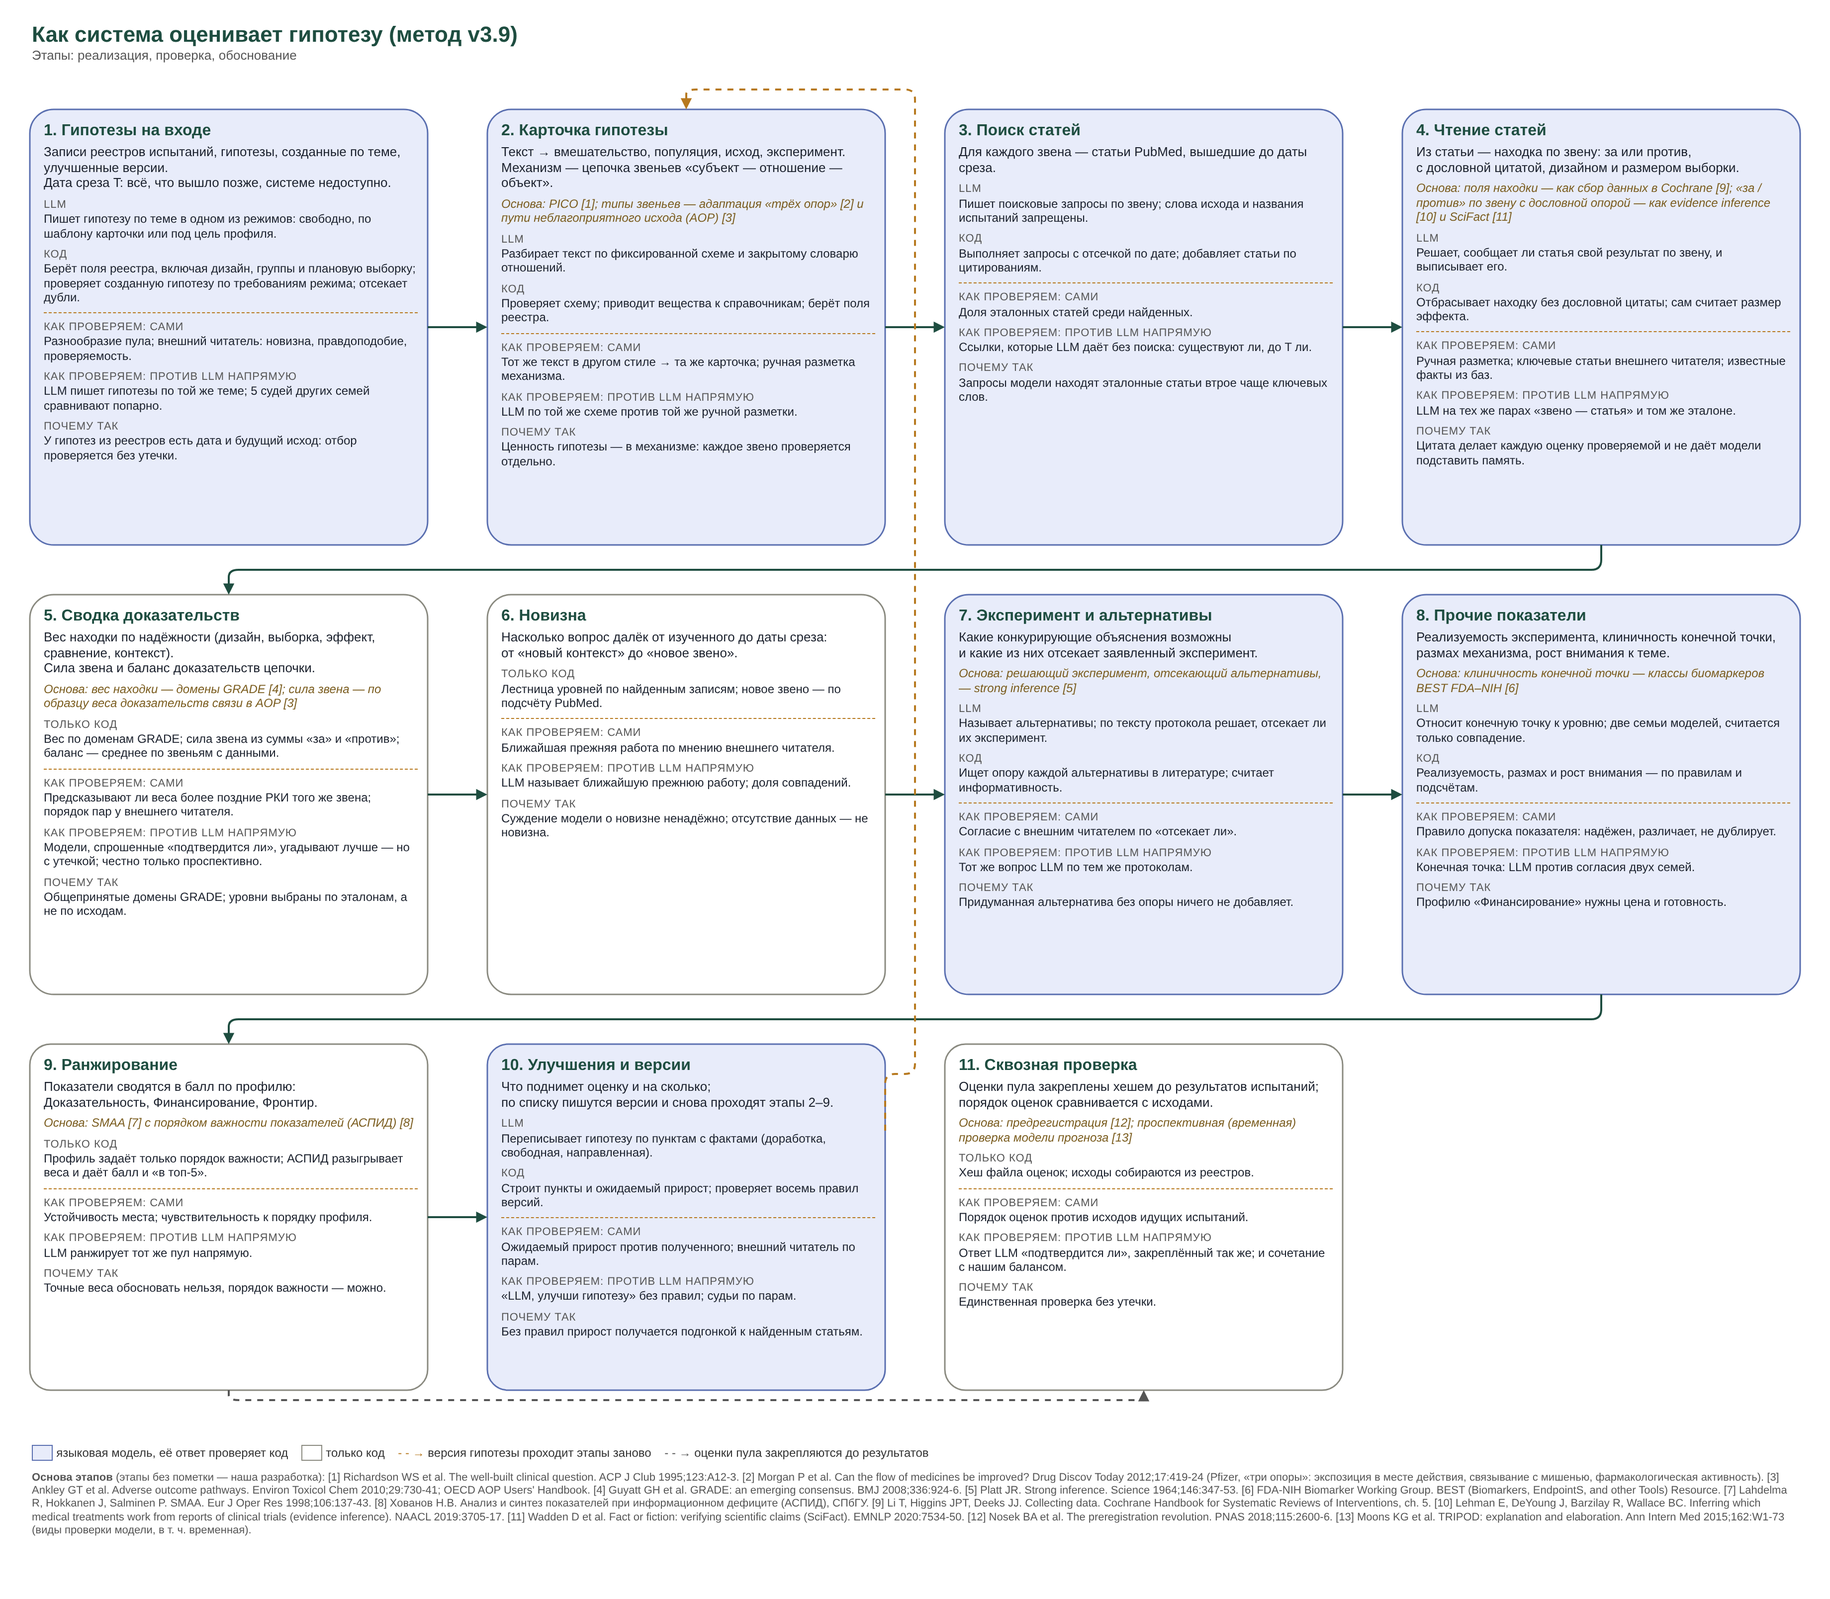
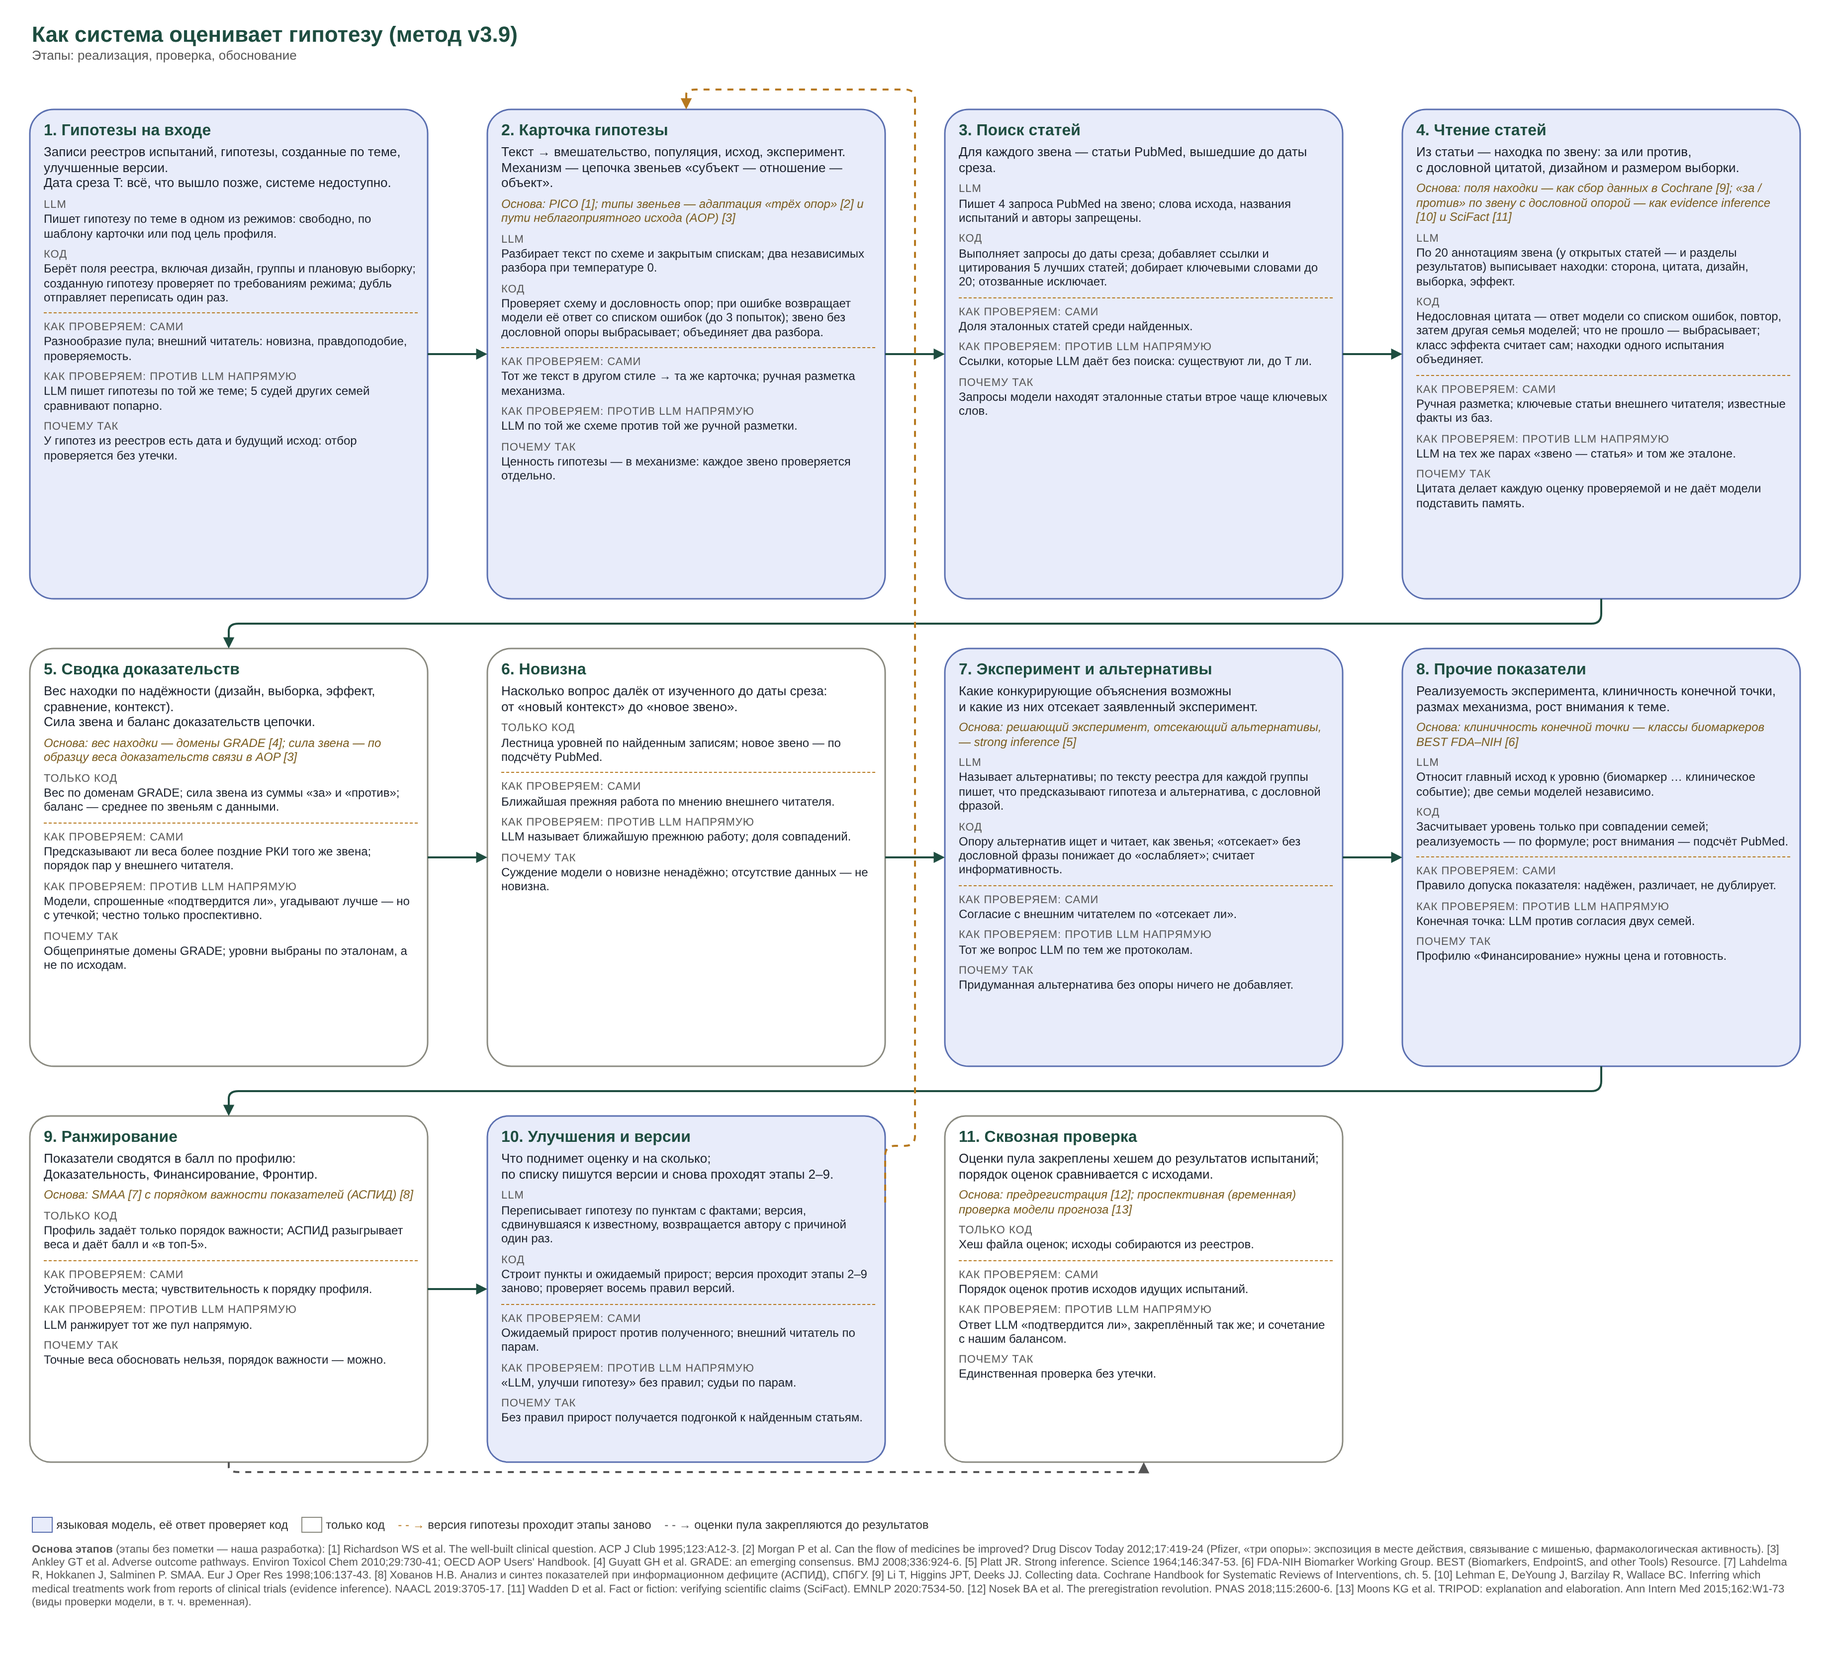
Flow scheme: concise implementation details per stage (two parses at temperature 0 and their union, re-asks with the error list, fallback family, 4 queries and 20 papers per link, verbatim phrase for 'rules out', agreement of two families, one return of a drifted version)
Claude-Session: https://claude.ai/code/session_015QaY8wcM8f6FoFe6WxnTtU

diff --git a/docs/system/build_flow.py b/docs/system/build_flow.py
@@ -19,30 +19,30 @@ STAGES = [
          base=["Записи реестров испытаний, гипотезы, созданные по теме, улучшенные версии.",
                "Дата среза T: всё, что вышло позже, системе недоступно."],
          llm=["Пишет гипотезу по теме в одном из режимов: свободно, по шаблону карточки или под цель профиля."],
-         code=["Берёт поля реестра, включая дизайн, группы и плановую выборку; проверяет созданную гипотезу по требованиям режима; отсекает дубли."],
+         code=['Берёт поля реестра, включая дизайн, группы и плановую выборку; созданную гипотезу проверяет по требованиям режима; дубль отправляет переписать один раз.'],
          own=["Разнообразие пула; внешний читатель: новизна, правдоподобие, проверяемость."],
          base_llm=["LLM пишет гипотезы по той же теме; 5 судей других семей сравнивают попарно."],
          why=["У гипотез из реестров есть дата и будущий исход: отбор проверяется без утечки."]),
     dict(name="2. Карточка гипотезы", basis="PICO [1]; типы звеньев — адаптация «трёх опор» [2] и пути неблагоприятного исхода (AOP) [3]", kind="llm",
          base=["Текст → вмешательство, популяция, исход, эксперимент.",
                "Механизм — цепочка звеньев «субъект — отношение — объект»."],
-         llm=["Разбирает текст по фиксированной схеме и закрытому словарю отношений."],
-         code=["Проверяет схему; приводит вещества к справочникам; берёт поля реестра."],
+         llm=['Разбирает текст по схеме и закрытым спискам; два независимых разбора при температуре 0.'],
+         code=['Проверяет схему и дословность опор; при ошибке возвращает модели её ответ со списком ошибок (до 3 попыток); звено без дословной опоры выбрасывает; объединяет два разбора.'],
          own=["Тот же текст в другом стиле → та же карточка; ручная разметка механизма."],
          base_llm=["LLM по той же схеме против той же ручной разметки."],
          why=["Ценность гипотезы — в механизме: каждое звено проверяется отдельно."]),
     dict(name="3. Поиск статей", kind="llm",
          base=["Для каждого звена — статьи PubMed, вышедшие до даты среза."],
-         llm=["Пишет поисковые запросы по звену; слова исхода и названия испытаний запрещены."],
-         code=["Выполняет запросы с отсечкой по дате; добавляет статьи по цитированиям."],
+         llm=['Пишет 4 запроса PubMed на звено; слова исхода, названия испытаний и авторы запрещены.'],
+         code=['Выполняет запросы до даты среза; добавляет ссылки и цитирования 5 лучших статей; добирает ключевыми словами до 20; отозванные исключает.'],
          own=["Доля эталонных статей среди найденных."],
          base_llm=["Ссылки, которые LLM даёт без поиска: существуют ли, до T ли."],
          why=["Запросы модели находят эталонные статьи втрое чаще ключевых слов."]),
     dict(name="4. Чтение статей", basis="поля находки — как сбор данных в Cochrane [9]; «за / против» по звену с дословной опорой — как evidence inference [10] и SciFact [11]", kind="llm",
          base=["Из статьи — находка по звену: за или против,",
                "с дословной цитатой, дизайном и размером выборки."],
-         llm=["Решает, сообщает ли статья свой результат по звену, и выписывает его."],
-         code=["Отбрасывает находку без дословной цитаты; сам считает размер эффекта."],
+         llm=['По 20 аннотациям звена (у открытых статей — и разделы результатов) выписывает находки: сторона, цитата, дизайн, выборка, эффект.'],
+         code=['Недословная цитата — ответ модели со списком ошибок, повтор, затем другая семья моделей; что не прошло — выбрасывает; класс эффекта считает сам; находки одного испытания объединяет.'],
          own=["Ручная разметка; ключевые статьи внешнего читателя; известные факты из баз."],
          base_llm=["LLM на тех же парах «звено — статья» и том же эталоне."],
          why=["Цитата делает каждую оценку проверяемой и не даёт модели подставить память."]),
@@ -63,16 +63,16 @@ STAGES = [
     dict(name="7. Эксперимент и альтернативы", basis="решающий эксперимент, отсекающий альтернативы, — strong inference [5]", kind="llm",
          base=["Какие конкурирующие объяснения возможны",
                "и какие из них отсекает заявленный эксперимент."],
-         llm=["Называет альтернативы; по тексту протокола решает, отсекает ли их эксперимент."],
-         code=["Ищет опору каждой альтернативы в литературе; считает информативность."],
+         llm=['Называет альтернативы; по тексту реестра для каждой группы пишет, что предсказывают гипотеза и альтернатива, с дословной фразой.'],
+         code=['Опору альтернатив ищет и читает, как звенья; «отсекает» без дословной фразы понижает до «ослабляет»; считает информативность.'],
          own=["Согласие с внешним читателем по «отсекает ли»."],
          base_llm=["Тот же вопрос LLM по тем же протоколам."],
          why=["Придуманная альтернатива без опоры ничего не добавляет."]),
     dict(name="8. Прочие показатели", basis="клиничность конечной точки — классы биомаркеров BEST FDA–NIH [6]", kind="llm",
          base=["Реализуемость эксперимента, клиничность конечной точки,",
                "размах механизма, рост внимания к теме."],
-         llm=["Относит конечную точку к уровню; две семьи моделей, считается только совпадение."],
-         code=["Реализуемость, размах и рост внимания — по правилам и подсчётам."],
+         llm=['Относит главный исход к уровню (биомаркер … клиническое событие); две семьи моделей независимо.'],
+         code=['Засчитывает уровень только при совпадении семей; реализуемость — по формуле; рост внимания — подсчёт PubMed.'],
          own=["Правило допуска показателя: надёжен, различает, не дублирует."],
          base_llm=["Конечная точка: LLM против согласия двух семей."],
          why=["Профилю «Финансирование» нужны цена и готовность."]),
@@ -86,8 +86,8 @@ STAGES = [
     dict(name="10. Улучшения и версии", kind="llm",
          base=["Что поднимет оценку и на сколько;",
                "по списку пишутся версии и снова проходят этапы 2–9."],
-         llm=["Переписывает гипотезу по пунктам с фактами (доработка, свободная, направленная)."],
-         code=["Строит пункты и ожидаемый прирост; проверяет восемь правил версий."],
+         llm=['Переписывает гипотезу по пунктам с фактами; версия, сдвинувшаяся к известному, возвращается автору с причиной один раз.'],
+         code=['Строит пункты и ожидаемый прирост; версия проходит этапы 2–9 заново; проверяет восемь правил версий.'],
          own=["Ожидаемый прирост против полученного; внешний читатель по парам."],
          base_llm=["«LLM, улучши гипотезу» без правил; судьи по парам."],
          why=["Без правил прирост получается подгонкой к найденным статьям."]),
